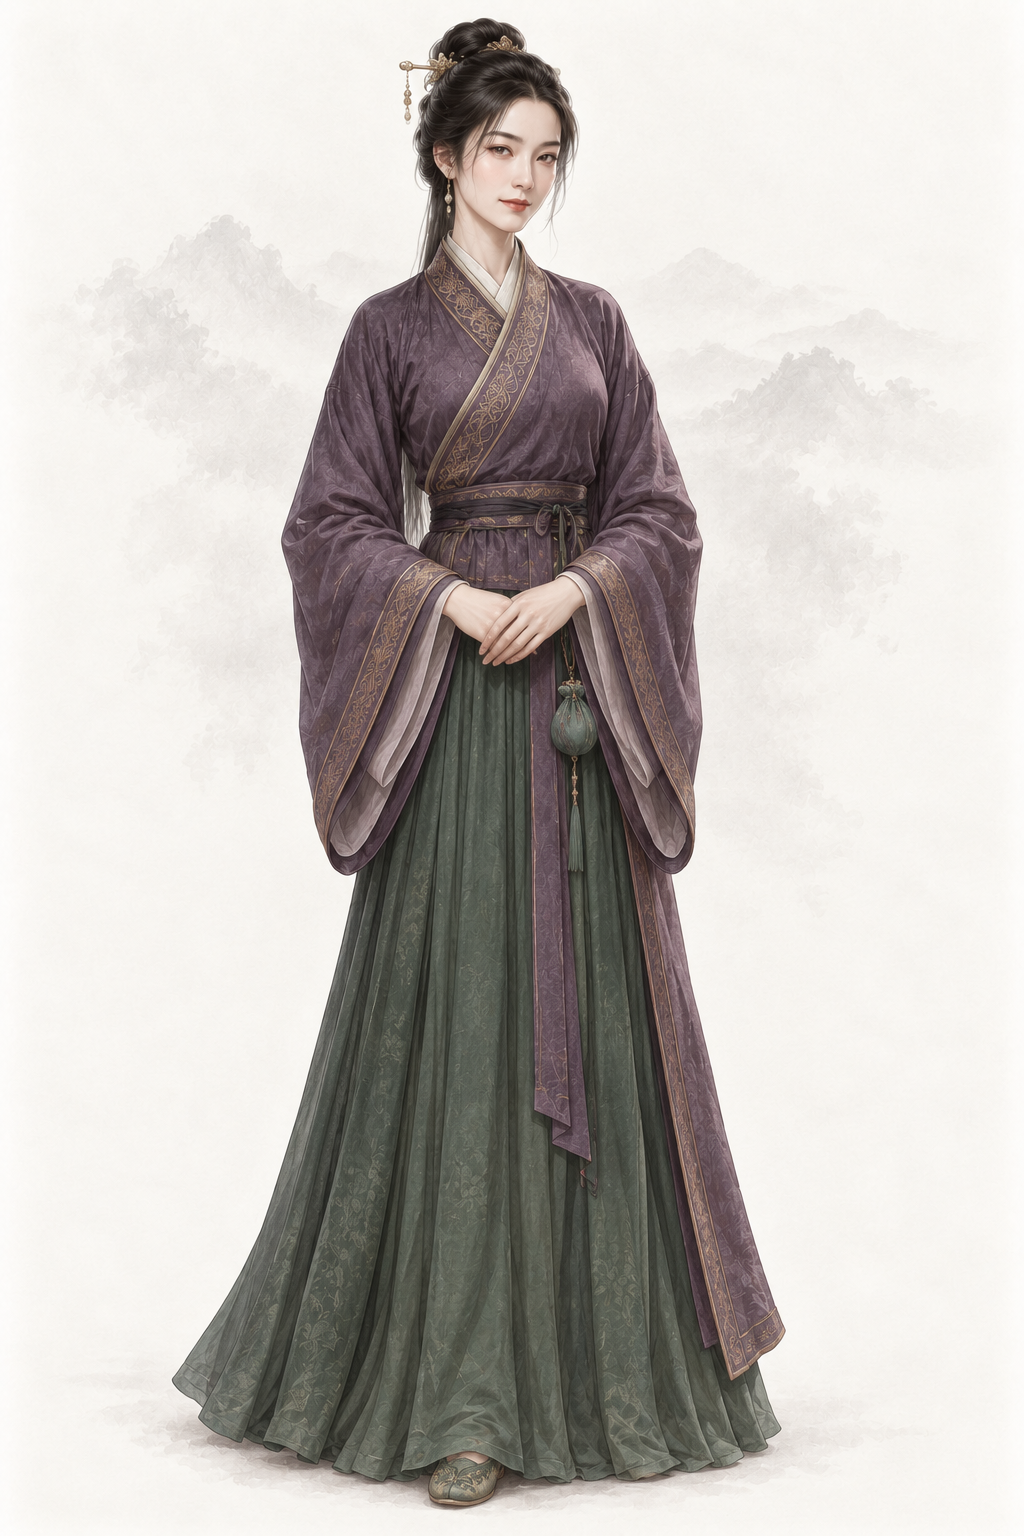
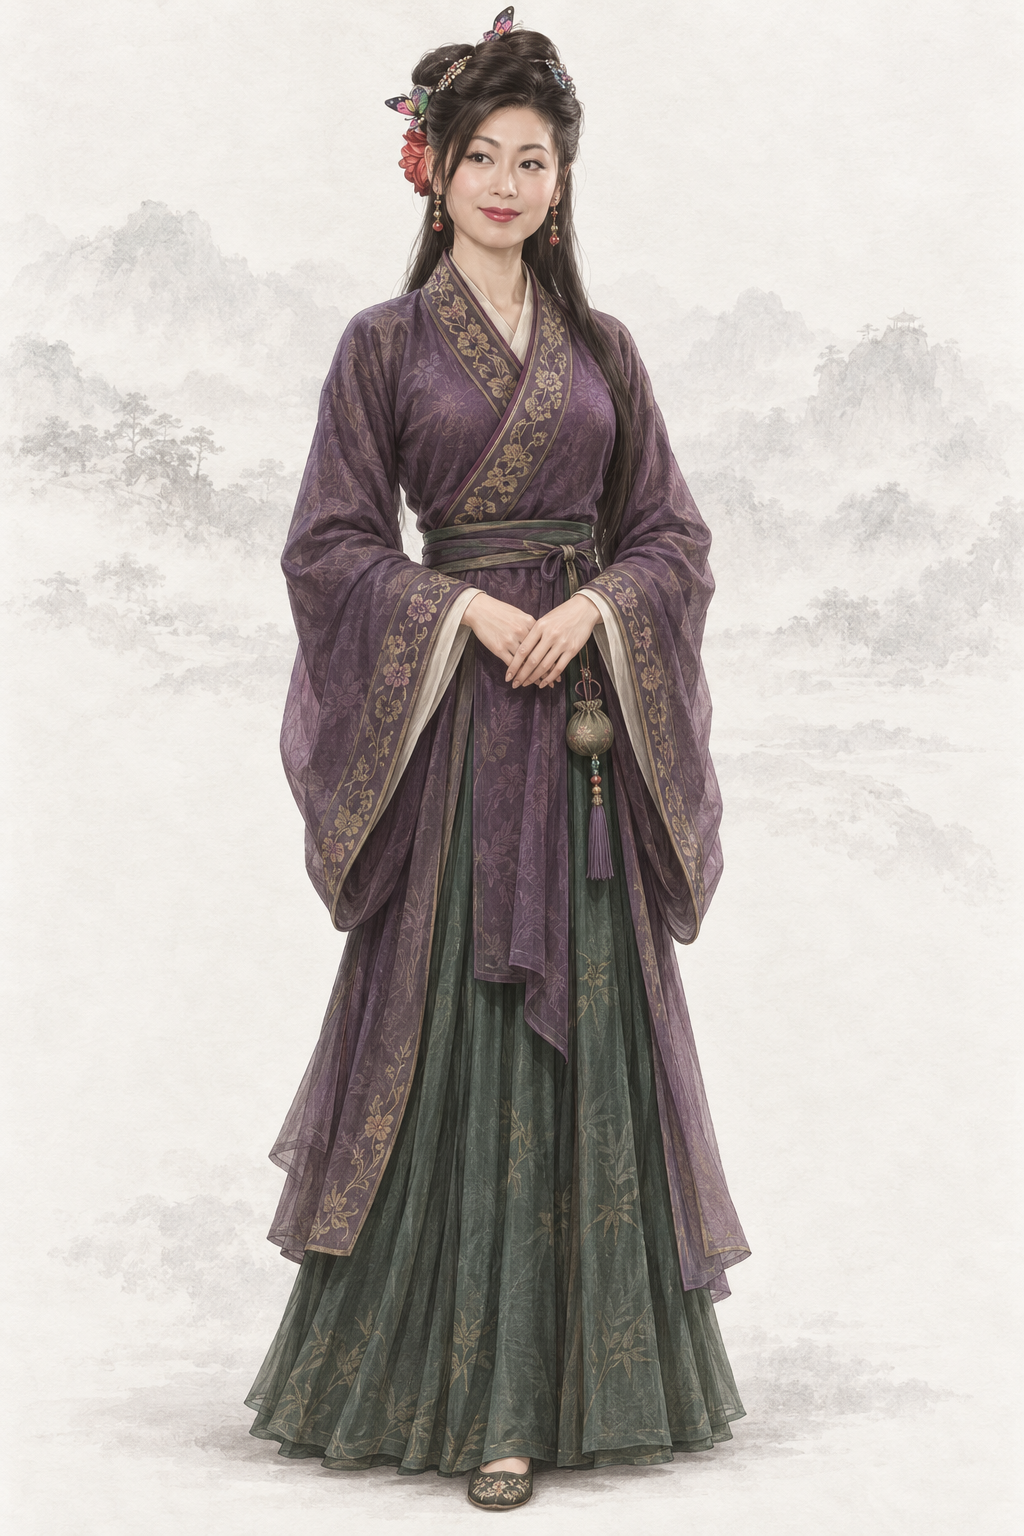
assets(character): por_npc_suquan__ch08_youth_base 苏荃（codex · AR-32 经典剧照重出）
1998 年 TVB《鹿鼎记》剧照 1 张 + 基线；提示词写回「## Gemini 提示词」，上一版留作历史，frontmatter 加 classic_ref。

diff --git a/assets/default/prompts/characters/ch08-luding/npc_suquan.md b/assets/default/prompts/characters/ch08-luding/npc_suquan.md
@@ -17,15 +17,42 @@ references:
   use: 第三参考仅背景：暖浅灰纸底、极浅低对比水墨远山、薄雾和留白，已实际view。完全忽略王语嫣面容、年龄、体型、发髻、倾头转身、白青衣装和饰物；墨迹纸纹不得侵入苏荃的皮肤、衣料和器物。
 status: redo
 redo_reason: "旧图以 1998 年剧集剧照为面部身份参考生成，有复刻真人面容的风险（本轮口径禁止）（九十年代港剧妆面）；造型与年龄本身可用，保留深紫袄、墨绿裙与香囊，只把脸换成文字设计的独立面容。"
-reference_upload:
-- assets/default/baseline/character/female/ref_npc_wangyuyan__ch01_base01.png
 realism_revision: user_identity_pose_20261001
 codex_prompt_rev: 2026-10-02
+classic_ref:
+  version: "1998 年 TVB《鹿鼎记》"
+  stills:
+  - ".agents/coord/imagegen-reference/identity-20261001/luding/suquan_1998_fengxiaowen.jpg"
+  note: "剧照缩到长边 1024 的 JPEG 上传，放在两张同性别基线之前（AR-32）；suquan_1998_fengxiaowen.jpg 裁切框 (0.2, 0.0, 0.84, 1.0)"
+reference_upload:
+- .agents/coord/imagegen-reference/identity-20261001/luding/suquan_1998_fengxiaowen.jpg
+- assets/default/baseline/character/female/ref_npc_wangyuyan__ch01_base01.png
+- assets/default/baseline/character/female/ref_npc_xiaolongnv__ch03_base01.png
 ---
 
 # 苏荃 · 人物写实修正
 
 ## Gemini 提示词
+
+> 2026-10-02 AR-32 经典剧照重出（6 号出图员，codex exec · image_gen 出图）：上传该角色经典影视版剧照 1 张（1998 年 TVB《鹿鼎记》：suquan_1998_fengxiaowen.jpg）在前、两张同性别基线在后。剧照只借鉴发型、服饰、配色、标志道具、气质与面部特征，重新绘制成项目画风，不照搬照片的构图、光影和姿势；人物一律成年。提示词里不写演员名。上一版提示词保留在下一节作历史。
+
+```text
+生成一张 2:3 竖幅全身人物立绘：单人、单一视角、完整全身——头顶、双手、双脚和手中器物的两端都在画面内，四周留出自然空白；人物站姿自然，身体基本朝向正面，头部端正（不歪头、不仰不俯），镜头平视。
+【参考图】随提示词上传 3 张参考图。第 1 张参考图是该角色经典影视造型的剧照：借鉴其发型、服饰、配色、标志道具、气质和面部特征，让人一眼认出是这个角色；但必须重新绘制成项目画风，不要照片质感，不要照搬剧照的构图、光影、背景和姿势，也不要做成照片修图。剧照与下文文字不一致的地方（年龄、所处阶段、帽饰与衣装细节、手中器物），以下文文字为准；画中人一律是成年人。最后两张是本项目画风基线：画风、用色、光线、质感和暖浅灰纸底加淡水墨背景以它们为准。
+【画风】写实手绘古风人物插画，与本项目写实武侠角色立绘同一画风，像功力深厚的画师用细腻笔触画出的真实美人。手绘插画质感，不是 CG 渲染：不要过度光滑的皮肤、完美对称的五官、塑料高光、过度锐利的发丝；保留自然的笔触和细微不完美。肌肤细腻自然，看得见极细的肤理和自然的左右不对称，不磨皮、不油亮、不打粉；头发是一缕缕自然的发丝和少量碎发；布料看得出经纬纹理、厚薄和自然垂坠的褶皱，干净完整；整体设色低饱和、雅致；柔和的自然光从左上方照来，明暗过渡自然，不打舞台光、轮廓光或美颜柔光。不是照片，不是三维渲染，不是动漫或游戏 CG，也不是油画（没有厚涂笔触和画布纹理）。
+【背景】不透明的暖浅灰色纸底，只在远处有极淡的水墨远山和薄雾，大面积留白；人物与背景明暗分明、轮廓边缘干净完整（后续要自动抠图），水墨和纸纹只在背景里，不侵入人物和衣服；脚下只有很淡的一点接触阴影。
+【人物】苏荃，《鹿鼎记》中神龙教教主洪安通的夫人，已有反制之心但尚未脱离神龙教的时期。
+【年龄与体态】约二十七八岁的成熟女子，身材高挑匀称，肩背舒展，衣着端庄。
+【经典造型】要一眼认出是教主夫人苏荃——高髻金簪、深紫袄墨绿裙，成熟艳丽、精明从容，有掌控全局的气场；是最有风韵的美人。
+【面容】脸以剧照为底子——保留剧照里这个角色的脸型、眉眼、鼻唇的比例关系和神气，画成成年人；偏长的鹅蛋脸，颧部饱满有体积，下颌圆顺收拢；眉毛长而弯、眉尾舒展；眼睛修长、外眼角微微上扬，眼神妩媚而精明，带着从容的掌控感；鼻梁挺直、鼻头圆润；上唇唇峰清楚、下唇丰润，嘴角一抹若有若无的笑；肌肤白皙，有真实纹理。成熟、艳丽、聪明，不是少女。
+【发式】黑发梳成高而端庄的发髻，插一支金簪和少量珠饰，鬓边斜插一支彩蝶发簪；耳垂一对小坠子。
+【服饰】深紫色交领长袄（右衽，领口与袖缘有暗金色细纹刺绣）、墨绿长裙、平底绣鞋。
+【道具与姿态】左腰用短带系一只小素面香囊；双手轻叠在腹前；正面站稳，目光从容。
+【不要】画面里不要任何文字、题款、印章、签名、水印、台标、边框、分格或多视图；不要第二个人；不要幼态（童颜、娃娃脸、婴儿肥、儿童或少年身材、大头小身）；不要塑料感皮肤、磨皮美颜、网红脸（尖下巴大眼高鼻的模板脸）、过度对称、浓妆、偶像式打光、蜡像感；不要照片质感、三维渲染或动漫大眼；不要歪头、斜镜头；不要多指、缺指（设定的伤残除外）、手与器物粘连或悬空；汉式交领必须右衽（穿着者的左襟压在右襟上），不要左衽（设定为少数民族服制的除外），不要水平镜像；不要现代物品、日式服饰或日本刀、发光特效、法阵或能量光。不要照片或照片修图的质感，不要照搬剧照的构图、光影、背景和姿势，不要剧照里的字幕、台标和水印。不要九十年代港剧浓妆；不要照片感；不要少女脸。清初汉族女子仍穿明式袄裙：汉式交领一律右衽（穿着者左襟压右襟），不要左衽、不要水平镜像。
+【画风基线】随提示词上传的参考图里，最后两张是本项目的立绘画风基线：只参考它们的画风、用色、光线、质感和暖浅灰纸底加淡水墨的背景处理，整体画风必须与它们一致——精细写实的数字手绘插画，不是油画，不要厚涂笔触和画布纹理。基线图只取画风，不取长相：不要照搬基线图里人物的长相、年龄、发型、服饰和姿势。
+```
+
+## 上一版 Gemini 提示词（2026-10-02 文字版；AR-32 经典剧照重出前，历史，不再用于出图）
 
 > 2026-10-02 Codex 人物线 2 号（AR-31）：在审核组稿上补一行「经典形象」（借鉴公认经典造型的发式、装束、配色、标志道具与气质，只写文字，不写演员名、不上传剧照），并补去 AI 化要求。本轮出图用下面第一个代码块；审核组原稿保留在其后的「审核组原稿」小节作历史。
 
